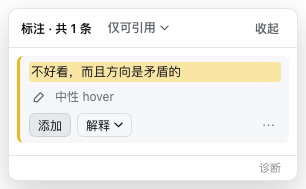
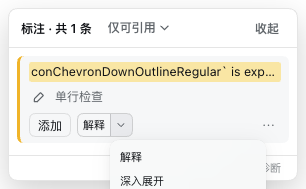
feat(panel): single-line quotes and a split shortcut button
The excerpt clamps to one line with an ellipsis, so rows keep a predictable
height regardless of the quote's length.

The shortcut control now mirrors the app's open-with button: a hairline pill
with a main half that runs the first preset and a narrow chevron half that
opens the rest. It reuses the same tokens (border-l4, radius-sm,
interactive-bg-hover) rather than approximating them.

diff --git a/src/client/AnnotationPanel.tsx b/src/client/AnnotationPanel.tsx
@@ -7,7 +7,7 @@
  * triggers and the content.
  */
 import { useEffect, useLayoutEffect, useState } from 'react'
-import { Menu } from '@deepseek-ai/dsh-client-ui-primitives'
+import { IconChevronDownOutlineRegular, Menu } from '@deepseek-ai/dsh-client-ui-primitives'
 import type { MenuEntry } from '@deepseek-ai/dsh-client-ui-primitives'
 import type { Annotation, Preset } from './contract.ts'
 import type { BoostTranslate } from './locales.ts'
@@ -274,34 +274,47 @@ export function AnnotationPanel({ store, t }: AnnotationPanelProps) {
                   </button>
                 )}
                 {annotation.kind === 'quote' && (
-                  <Menu
-                    open={presetFor === annotation.id}
-                    align="start"
-                    compact
-                    portal
-                    items={presetItems}
-                    onSelect={(id) => {
-                      const preset = presets[Number(id.slice(1))]
-                      if (preset !== undefined) handOff(annotation, preset.prompt)
-                      setPresetFor(null)
-                    }}
-                    onClose={() => { setPresetFor(null) }}
-                    anchor={(
-                      <button
-                        type="button"
-                        className="dsh-boost-action"
-                        aria-haspopup="menu"
-                        aria-expanded={presetFor === annotation.id}
-                        onClick={(event) => {
-                          event.stopPropagation()
-                          setPresetFor(current => current === annotation.id ? null : annotation.id)
-                        }}
-                      >
-                        {primaryPreset?.label ?? t('item.explain')}
-                        <Chevron />
-                      </button>
-                    )}
-                  />
+                  <span className="dsh-boost-split">
+                    <button
+                      type="button"
+                      className="dsh-boost-split-main"
+                      onClick={(event) => {
+                        event.stopPropagation()
+                        if (primaryPreset !== undefined) handOff(annotation, primaryPreset.prompt)
+                      }}
+                    >
+                      {primaryPreset?.label ?? t('item.explain')}
+                    </button>
+                    <Menu
+                      className="dsh-boost-split-slot"
+                      open={presetFor === annotation.id}
+                      align="start"
+                      compact
+                      portal
+                      items={presetItems}
+                      onSelect={(id) => {
+                        const preset = presets[Number(id.slice(1))]
+                        if (preset !== undefined) handOff(annotation, preset.prompt)
+                        setPresetFor(null)
+                      }}
+                      onClose={() => { setPresetFor(null) }}
+                      anchor={(
+                        <button
+                          type="button"
+                          className="dsh-boost-split-chevron"
+                          aria-label={t('item.morePresets')}
+                          aria-haspopup="menu"
+                          aria-expanded={presetFor === annotation.id}
+                          onClick={(event) => {
+                            event.stopPropagation()
+                            setPresetFor(current => current === annotation.id ? null : annotation.id)
+                          }}
+                        >
+                          <IconChevronDownOutlineRegular />
+                        </button>
+                      )}
+                    />
+                  </span>
                 )}
                 <Menu
                   className="dsh-boost-more-slot"

diff --git a/src/client/styles.ts b/src/client/styles.ts
@@ -217,10 +217,10 @@ body[data-ds-dark-theme] .dsh-boost-quote[data-kind='mark'] {
   background: color-mix(in srgb, #ffc400 34%, transparent);
   border-radius: 3px;
   padding: 0 2px;
-  display: -webkit-box;
-  -webkit-line-clamp: 3;
-  -webkit-box-orient: vertical;
+  display: block;
+  white-space: nowrap;
   overflow: hidden;
+  text-overflow: ellipsis;
 }
 .dsh-boost-note-row {
   display: flex;
@@ -356,6 +356,49 @@ body[data-ds-dark-theme] .dsh-boost-icon-button:hover {
 body[data-ds-dark-theme] .dsh-boost-action:hover {
   background: rgba(255, 255, 255, 0.1);
 }
+/* Same shape as the app's open-with control: one hairline pill, a main
+   action and a narrow chevron half split by a hairline. */
+.dsh-boost-split {
+  display: inline-flex;
+  align-items: stretch;
+  box-sizing: border-box;
+  height: 24px;
+  overflow: hidden;
+  border: 0.5px solid var(--dsw-alias-border-l4, rgba(0, 0, 0, 0.15));
+  border-radius: var(--dsw-radius-sm, 8px);
+}
+.dsh-boost-split-main,
+.dsh-boost-split-chevron {
+  display: inline-flex;
+  align-items: center;
+  justify-content: center;
+  border: 0;
+  background: none;
+  color: var(--dsw-alias-label-primary, #1f2328);
+  font: inherit;
+  font-size: 11px;
+  line-height: 16px;
+  white-space: nowrap;
+  cursor: pointer;
+}
+.dsh-boost-split-main {
+  gap: 4px;
+  padding: 3px 5px;
+}
+.dsh-boost-split-chevron {
+  padding: 3px 4px 3px 3px;
+  border-left: 0.5px solid var(--dsw-alias-border-l4, rgba(0, 0, 0, 0.15));
+  color: var(--dsw-alias-label-secondary, #6b7280);
+}
+.dsh-boost-split-main:hover,
+.dsh-boost-split-chevron:hover,
+.dsh-boost-split-chevron[aria-expanded='true'] {
+  background: var(--dsw-alias-interactive-bg-hover, rgba(0, 0, 0, 0.05));
+}
+.dsh-boost-split-slot {
+  display: inline-flex;
+}
+
 .dsh-boost-more-slot {
   margin-left: auto;
   display: inline-flex;

diff --git a/CHANGELOG.md b/CHANGELOG.md
@@ -2,6 +2,9 @@
 
 ## 未发布
 
+- 引文只占一行，超出用省略号（原来最多三行）。
+- 快捷指令按钮改成与「用访达打开」同款的分体按钮：主键直接执行第一条指令，右侧窄键展开全部；边框 0.5px、`--dsw-radius-sm`、hover 用 `--dsw-alias-interactive-bg-hover`。
+
 - 右键标注菜单改用 shell 的 `Menu` 原语：与筛选、快捷指令、⋯ 菜单完全同一套浮层与配色，条目为「高亮 / 标注… / 复制」。
 - 修掉一个随之暴露的 bug：全局 mousedown 处理器把菜单当成“外部点击”关掉了（Menu 会被 portal 到 body，不在 `data-dsh-boost` 标记内），导致点菜单项时列表先被卸载、动作不执行。菜单的关闭现在交给 `Menu` 自己。
 
